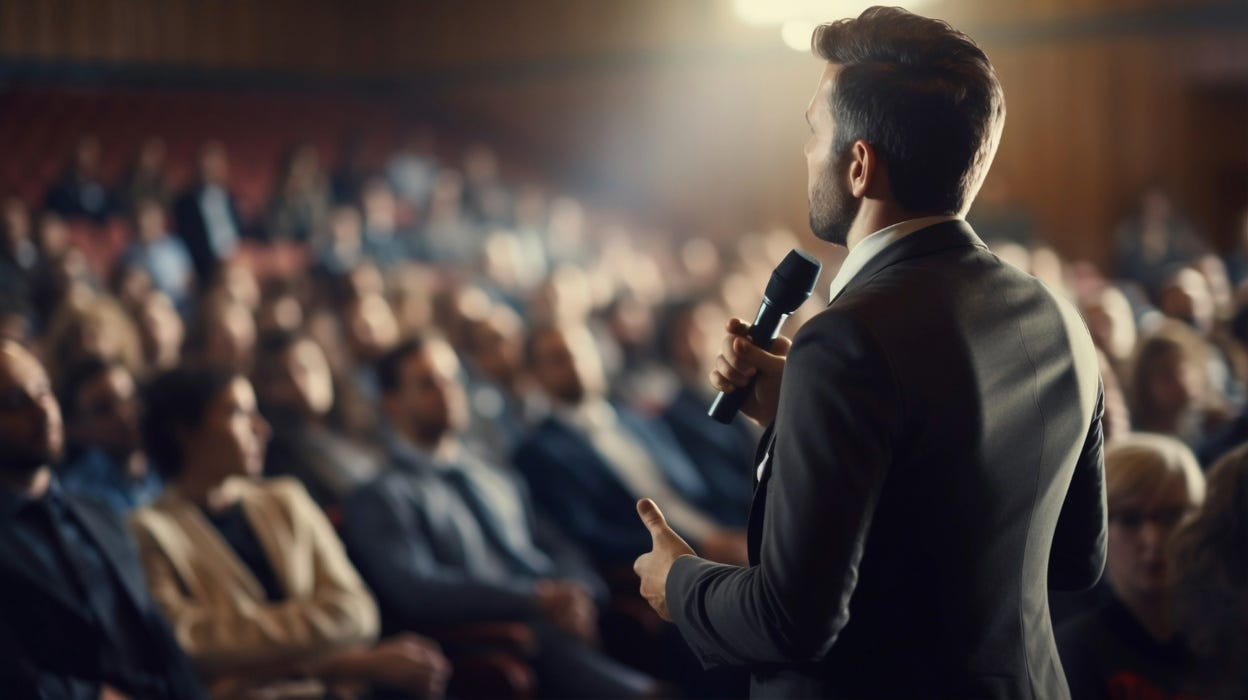
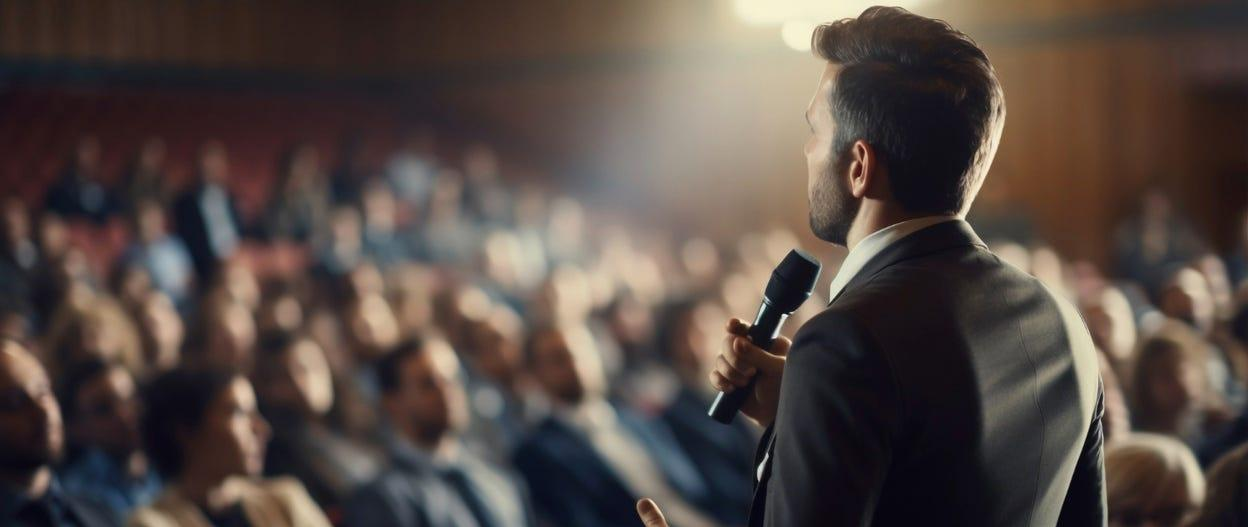
refactor: Redesign Manthan page hero section layout and styling, and simplify Navbar by removing mobile menu functionality and updating its appearance and navigation links.

diff --git a/src/components/Navbar.tsx b/src/components/Navbar.tsx
@@ -1,22 +1,20 @@
 import { useState, useEffect } from 'react';
 import { Link, useLocation } from 'react-router-dom';
 
-
 const MENU_ITEMS = [
     { label: 'Home', href: '/' },
     { label: 'Zones', href: '/zones' },
     { label: 'Vision 2026', href: '/vision' },
-    { label: 'Events', href: '/events' },
     { label: 'Manthan', href: '/manthan' },
+    { label: 'Schedule', href: '/schedule' },
+    { label: 'Events', href: '/events' },
     { label: 'Team', href: '/team' },
 ];
 
 export default function Navbar() {
     const [isScrolled, setIsScrolled] = useState(false);
-    const [isMenuOpen, setIsMenuOpen] = useState(false);
     const { pathname } = useLocation();
-
-    const isHome = pathname === '/';
+    const isHome = pathname === '/' || pathname === '/manthan';
 
     useEffect(() => {
         const handleScroll = () => {
@@ -26,17 +24,12 @@ export default function Navbar() {
         return () => window.removeEventListener('scroll', handleScroll);
     }, []);
 
-    // Close menu when route changes
-    useEffect(() => {
-        setIsMenuOpen(false);
-    }, [pathname]);
-
-    // Force scrolled state on non-home pages or when menu is open
-    const effectiveScrolled = isScrolled || !isHome || isMenuOpen;
+    // Force scrolled state on non-home pages
+    const effectiveScrolled = isScrolled || !isHome;
 
     return (
         <nav className={`fixed top-0 left-0 right-0 z-50 transition-all duration-500 ${effectiveScrolled ? 'py-4' : 'py-6'}`}>
-            <div className={`mx-auto transition-all duration-500 px-6 lg:px-10 ${effectiveScrolled ? 'max-w-[1200px] bg-[var(--color-nav-bg)] backdrop-blur-xl border border-white/30 dark:border-white/10 shadow-lg rounded-full py-3 mx-4 lg:mx-auto' : 'max-w-[1400px]'}`}>
+            <div className={`mx-auto transition-all duration-500 px-6 lg:px-10 ${effectiveScrolled ? 'max-w-[1200px] bg-white/70 backdrop-blur-xl border border-white/30 shadow-lg rounded-full py-3 mx-4 lg:mx-auto' : 'max-w-[1400px]'}`}>
                 <div className="flex justify-between items-center">
 
                     {/* Logo Section */}
@@ -48,58 +41,24 @@ export default function Navbar() {
                     </Link>
 
                     {/* Desktop Navigation */}
-                    <div className="hidden lg:flex items-center space-x-8">
+                    <div className="hidden lg:flex items-center space-x-6">
                         {MENU_ITEMS.map((item) => (
                             <Link
                                 key={item.label}
                                 to={item.href}
-                                className={`text-[18px] font-medium transition-colors hover:text-brics-blue ${effectiveScrolled ? 'text-[var(--color-nav-text)]' : 'text-white'}`}
+                                className={`text-[14px] font-medium transition-colors hover:text-brics-blue ${effectiveScrolled ? 'text-gray-700' : 'text-white'}`}
                             >
                                 {item.label}
                             </Link>
                         ))}
 
-                        {/* Theme Toggle Button (Desktop) */}
 
                     </div>
 
-                    {/* Mobile Menu & Theme Toggle */}
-                    <div className="lg:hidden flex items-center gap-2">
-
-                        <button
-                            onClick={() => setIsMenuOpen(!isMenuOpen)}
-                            className={`p-2 rounded-lg transition-colors ${effectiveScrolled ? 'text-[var(--color-nav-text)]' : 'text-white'}`}
-                        >
-                            {isMenuOpen ? (
-                                <svg className="w-8 h-8" fill="none" stroke="currentColor" viewBox="0 0 24 24">
-                                    <path strokeLinecap="round" strokeLinejoin="round" strokeWidth={2} d="M6 18L18 6M6 6l12 12" />
-                                </svg>
-                            ) : (
-                                <svg className="w-8 h-8" fill="none" stroke="currentColor" viewBox="0 0 24 24">
-                                    <path strokeLinecap="round" strokeLinejoin="round" strokeWidth={2} d="M4 6h16M4 12h16m-7 6h7" />
-                                </svg>
-                            )}
-                        </button>
+                    {/* Mobile Menu Button (Hamburger) - Placeholder */}
+                    <div className="lg:hidden">
+                        <svg className={`w-8 h-8 ${effectiveScrolled ? 'text-gray-700' : 'text-white'}`} fill="none" stroke="currentColor" viewBox="0 0 24 24"><path strokeLinecap="round" strokeLinejoin="round" strokeWidth={2} d="M4 6h16M4 12h16m-7 6h7" /></svg>
                     </div>
-                </div>
-            </div>
-
-            {/* Mobile Menu Overlay */}
-            <div
-                className={`lg:hidden fixed inset-0 z-[-1] bg-[var(--color-bg)] backdrop-blur-xl transition-all duration-500 transform ${isMenuOpen ? 'translate-y-0 opacity-100' : '-translate-y-full opacity-0'
-                    }`}
-            >
-                <div className="flex flex-col items-center justify-center h-full space-y-8 pt-20">
-                    {MENU_ITEMS.map((item) => (
-                        <Link
-                            key={item.label}
-                            to={item.href}
-                            className="text-2xl font-bold text-[var(--color-text)] hover:text-brics-blue transition-colors"
-                            onClick={() => setIsMenuOpen(false)}
-                        >
-                            {item.label}
-                        </Link>
-                    ))}
                 </div>
             </div>
         </nav>

diff --git a/src/pages/Manthan.tsx b/src/pages/Manthan.tsx
@@ -7,36 +7,35 @@ export default function Manthan() {
             <Navbar />
 
             {/* --- HERO SECTION --- */}
-            <header className="relative h-[80vh] min-h-[600px] flex items-center justify-center overflow-hidden">
+            <header className="relative w-full h-screen min-h-[700px] overflow-hidden bg-black">
                 {/* Background Image */}
                 <div className="absolute inset-0 z-0">
                     <img
-                        src="https://images.unsplash.com/photo-1544531586-fde5298cdd40?q=80&w=2670&auto=format&fit=crop"
+                        src="images/manthan/speaker.jpg"
                         alt="Conference Hall"
-                        className="w-full h-full object-cover object-center brightness-40"
+                        className="w-full h-full object-cover object-[75%] md:object-center brightness-50"
                     />
-                    <div className="absolute inset-0 bg-gradient-to-b from-black/70 via-black/40 to-[var(--color-bg)]"></div>
+                    <div className="absolute inset-0 bg-gradient-to-r from-black/80 via-black/40 to-transparent"></div>
                 </div>
 
                 {/* Hero Content */}
-                <div className="relative z-10 text-center px-6 max-w-5xl mx-auto">
-                    <div className="inline-block px-4 py-1.5 mb-6 border border-white/30 rounded-full bg-white/10 backdrop-blur-sm">
-                        <span className="text-white/90 text-sm font-medium tracking-wider uppercase">Pragyaan 2026</span>
-                    </div>
-                    <h1 className="text-5xl md:text-7xl font-bold text-white mb-6 leading-tight font-heading">
-                        Principal’s Conclave
-                        <span className="block text-3xl md:text-4xl mt-4 font-light opacity-90 text-blue-200">Reimagining Indian Schools</span>
-                    </h1>
-                    <p className="text-lg md:text-xl text-gray-200 mb-10 max-w-2xl mx-auto font-light">
-                        A high-intensity "Working Conclave" bringing together Principals, Policymakers, and Industry Leaders to draft the roadmap for 2030.
-                    </p>
-                    <div className="flex flex-col sm:flex-row gap-4 justify-center">
-                        <button className="px-8 py-3.5 bg-brics-blue hover:bg-blue-800 text-white rounded-full font-semibold transition-all transform hover:scale-105 shadow-lg shadow-blue-900/50">
-                            Download Brochure
-                        </button>
-                        <button className="px-8 py-3.5 bg-white/10 hover:bg-white/20 text-white border border-white/30 rounded-full font-semibold backdrop-blur-md transition-all">
-                            View Agenda
-                        </button>
+                <div className="relative z-20 max-w-[1400px] mx-auto px-6 lg:px-12 w-full h-full flex items-center pt-20">
+                    <div className="max-w-4xl">
+                        <h1 className="text-5xl md:text-[5rem] font-bold text-white leading-[1.1] mb-6 tracking-tight drop-shadow-sm font-heading">
+                            Principal’s Conclave
+                            <span className="block text-3xl md:text-5xl mt-2 font-light opacity-90 text-blue-200">Reimagining Indian Schools</span>
+                        </h1>
+                        <p className="text-xl md:text-2xl text-gray-200 mb-8 max-w-2xl font-light">
+                            A high-intensity "Working Conclave" bringing together Principals, Policymakers, and Industry Leaders to draft the roadmap for 2030.
+                        </p>
+                        <div className="flex flex-col sm:flex-row gap-4">
+                            <button className="px-8 py-3.5 border-2 border-white text-white rounded-full font-bold text-lg hover:bg-white hover:text-black transition-all duration-300 cursor-pointer">
+                                Download Brochure
+                            </button>
+                            <button className="px-8 py-3.5 bg-brics-blue/80 hover:bg-brics-blue text-white rounded-full font-bold text-lg transition-all duration-300 cursor-pointer backdrop-blur-sm">
+                                View Agenda
+                            </button>
+                        </div>
                     </div>
                 </div>
             </header>
